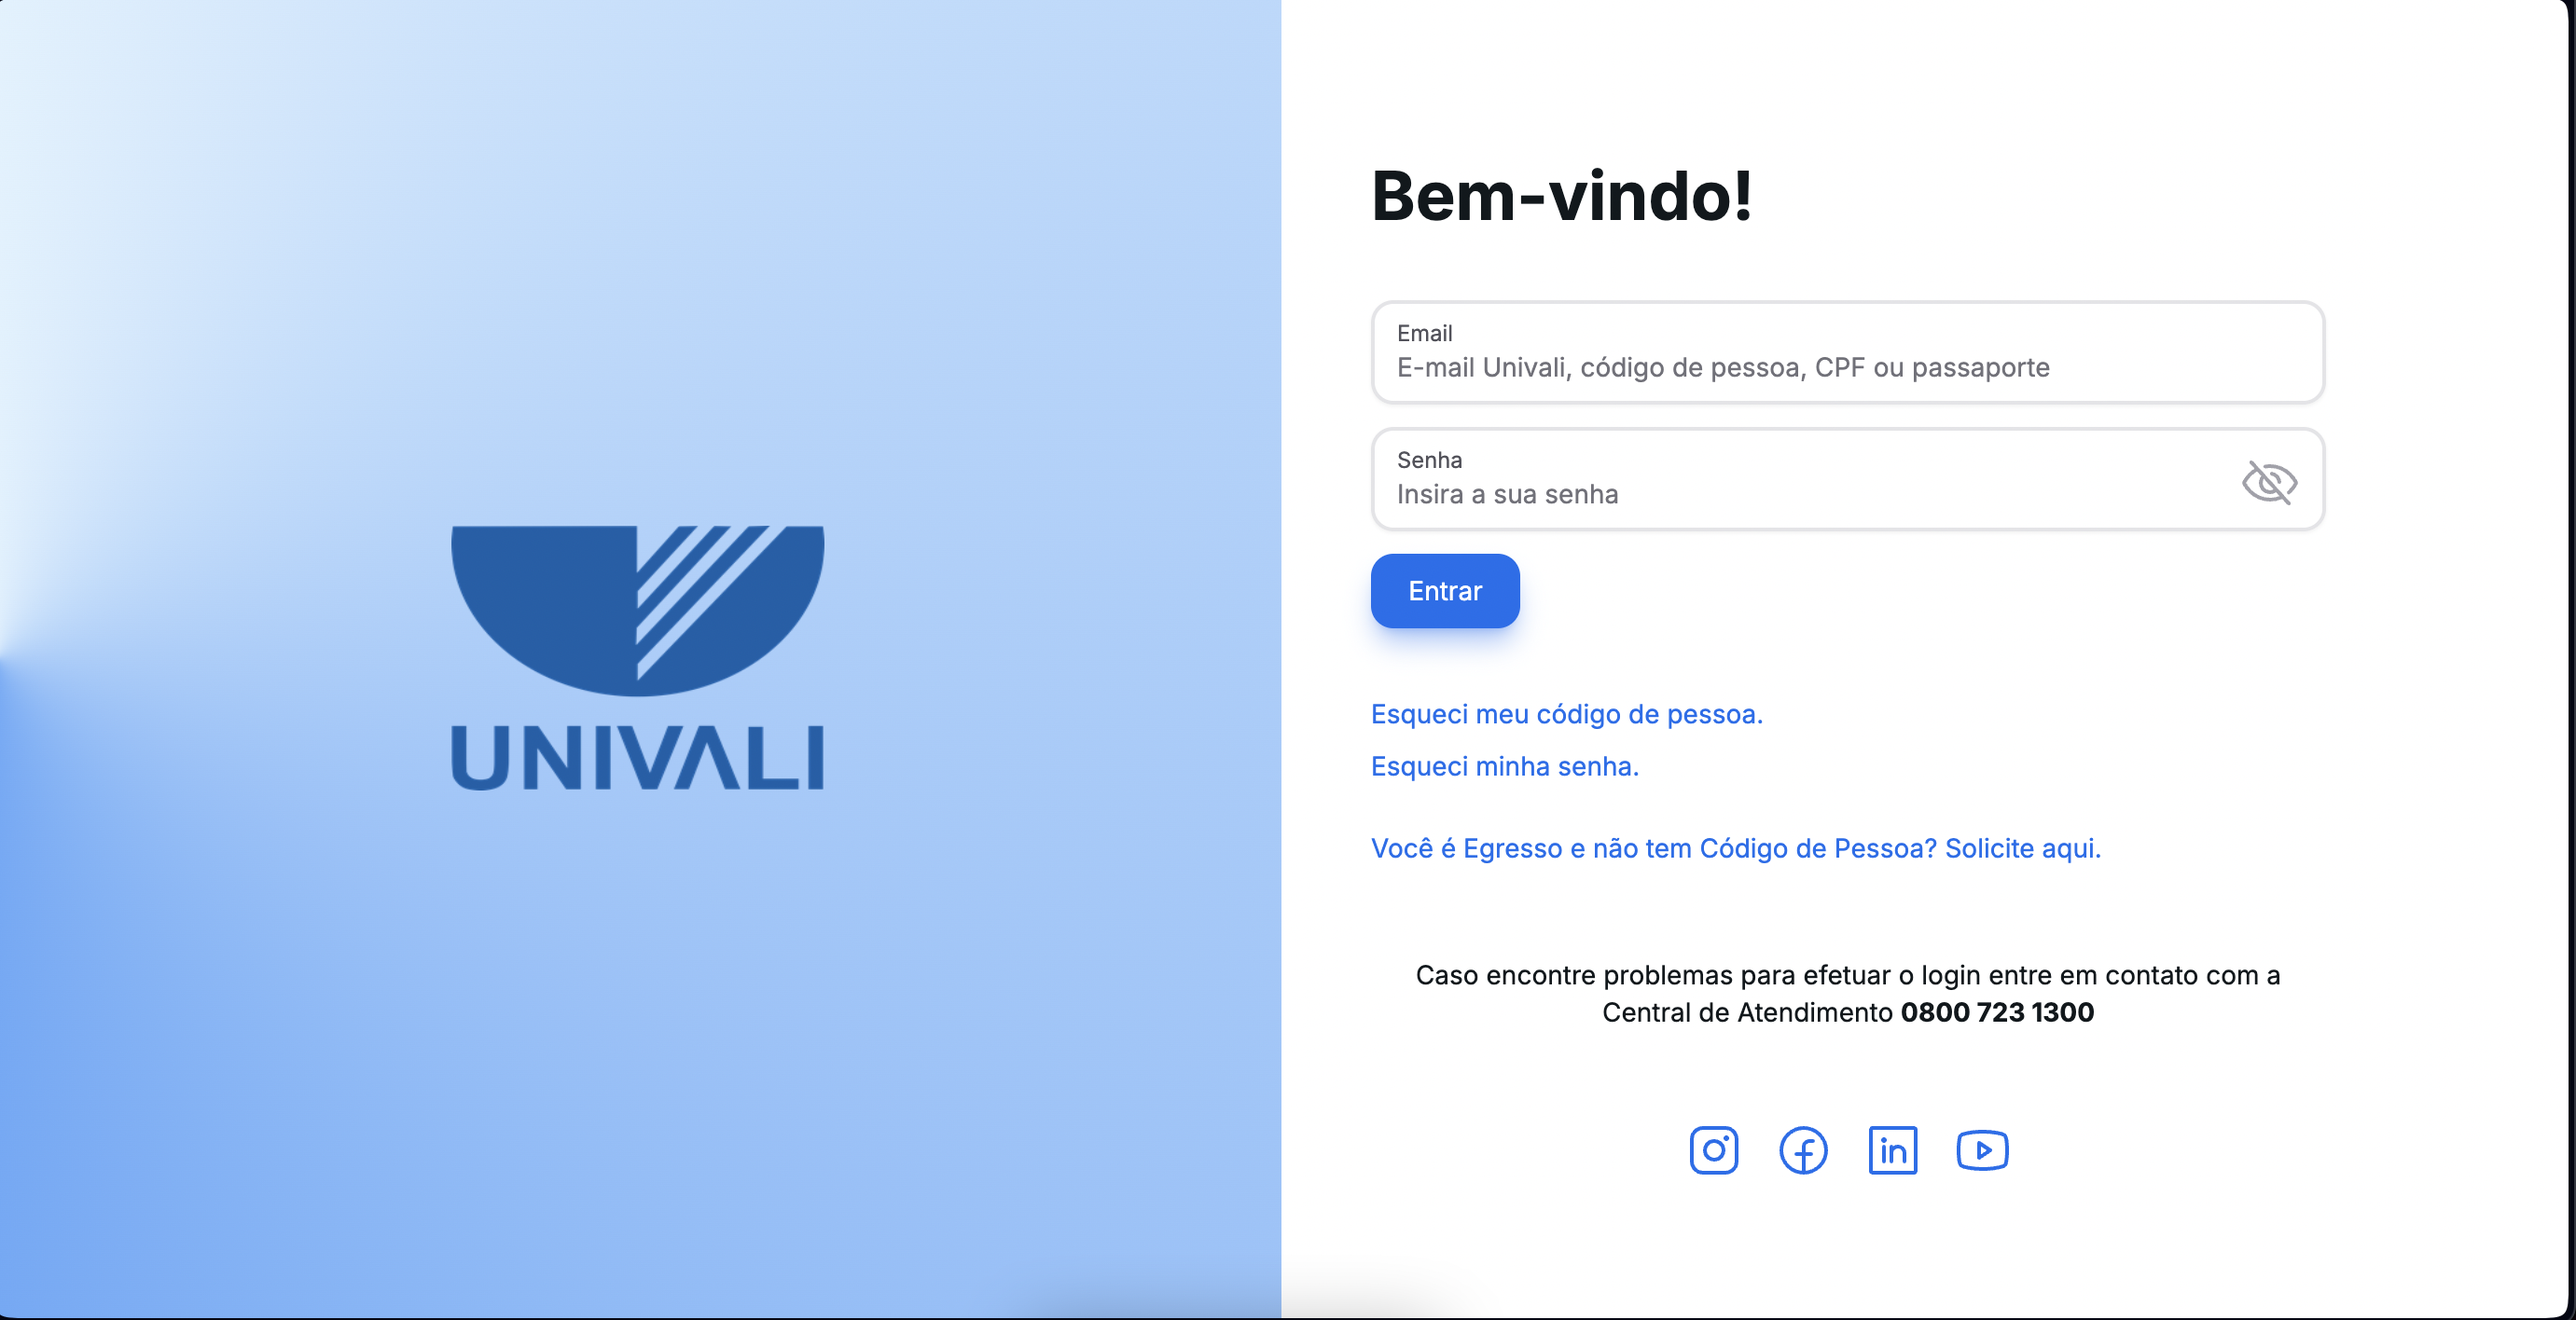
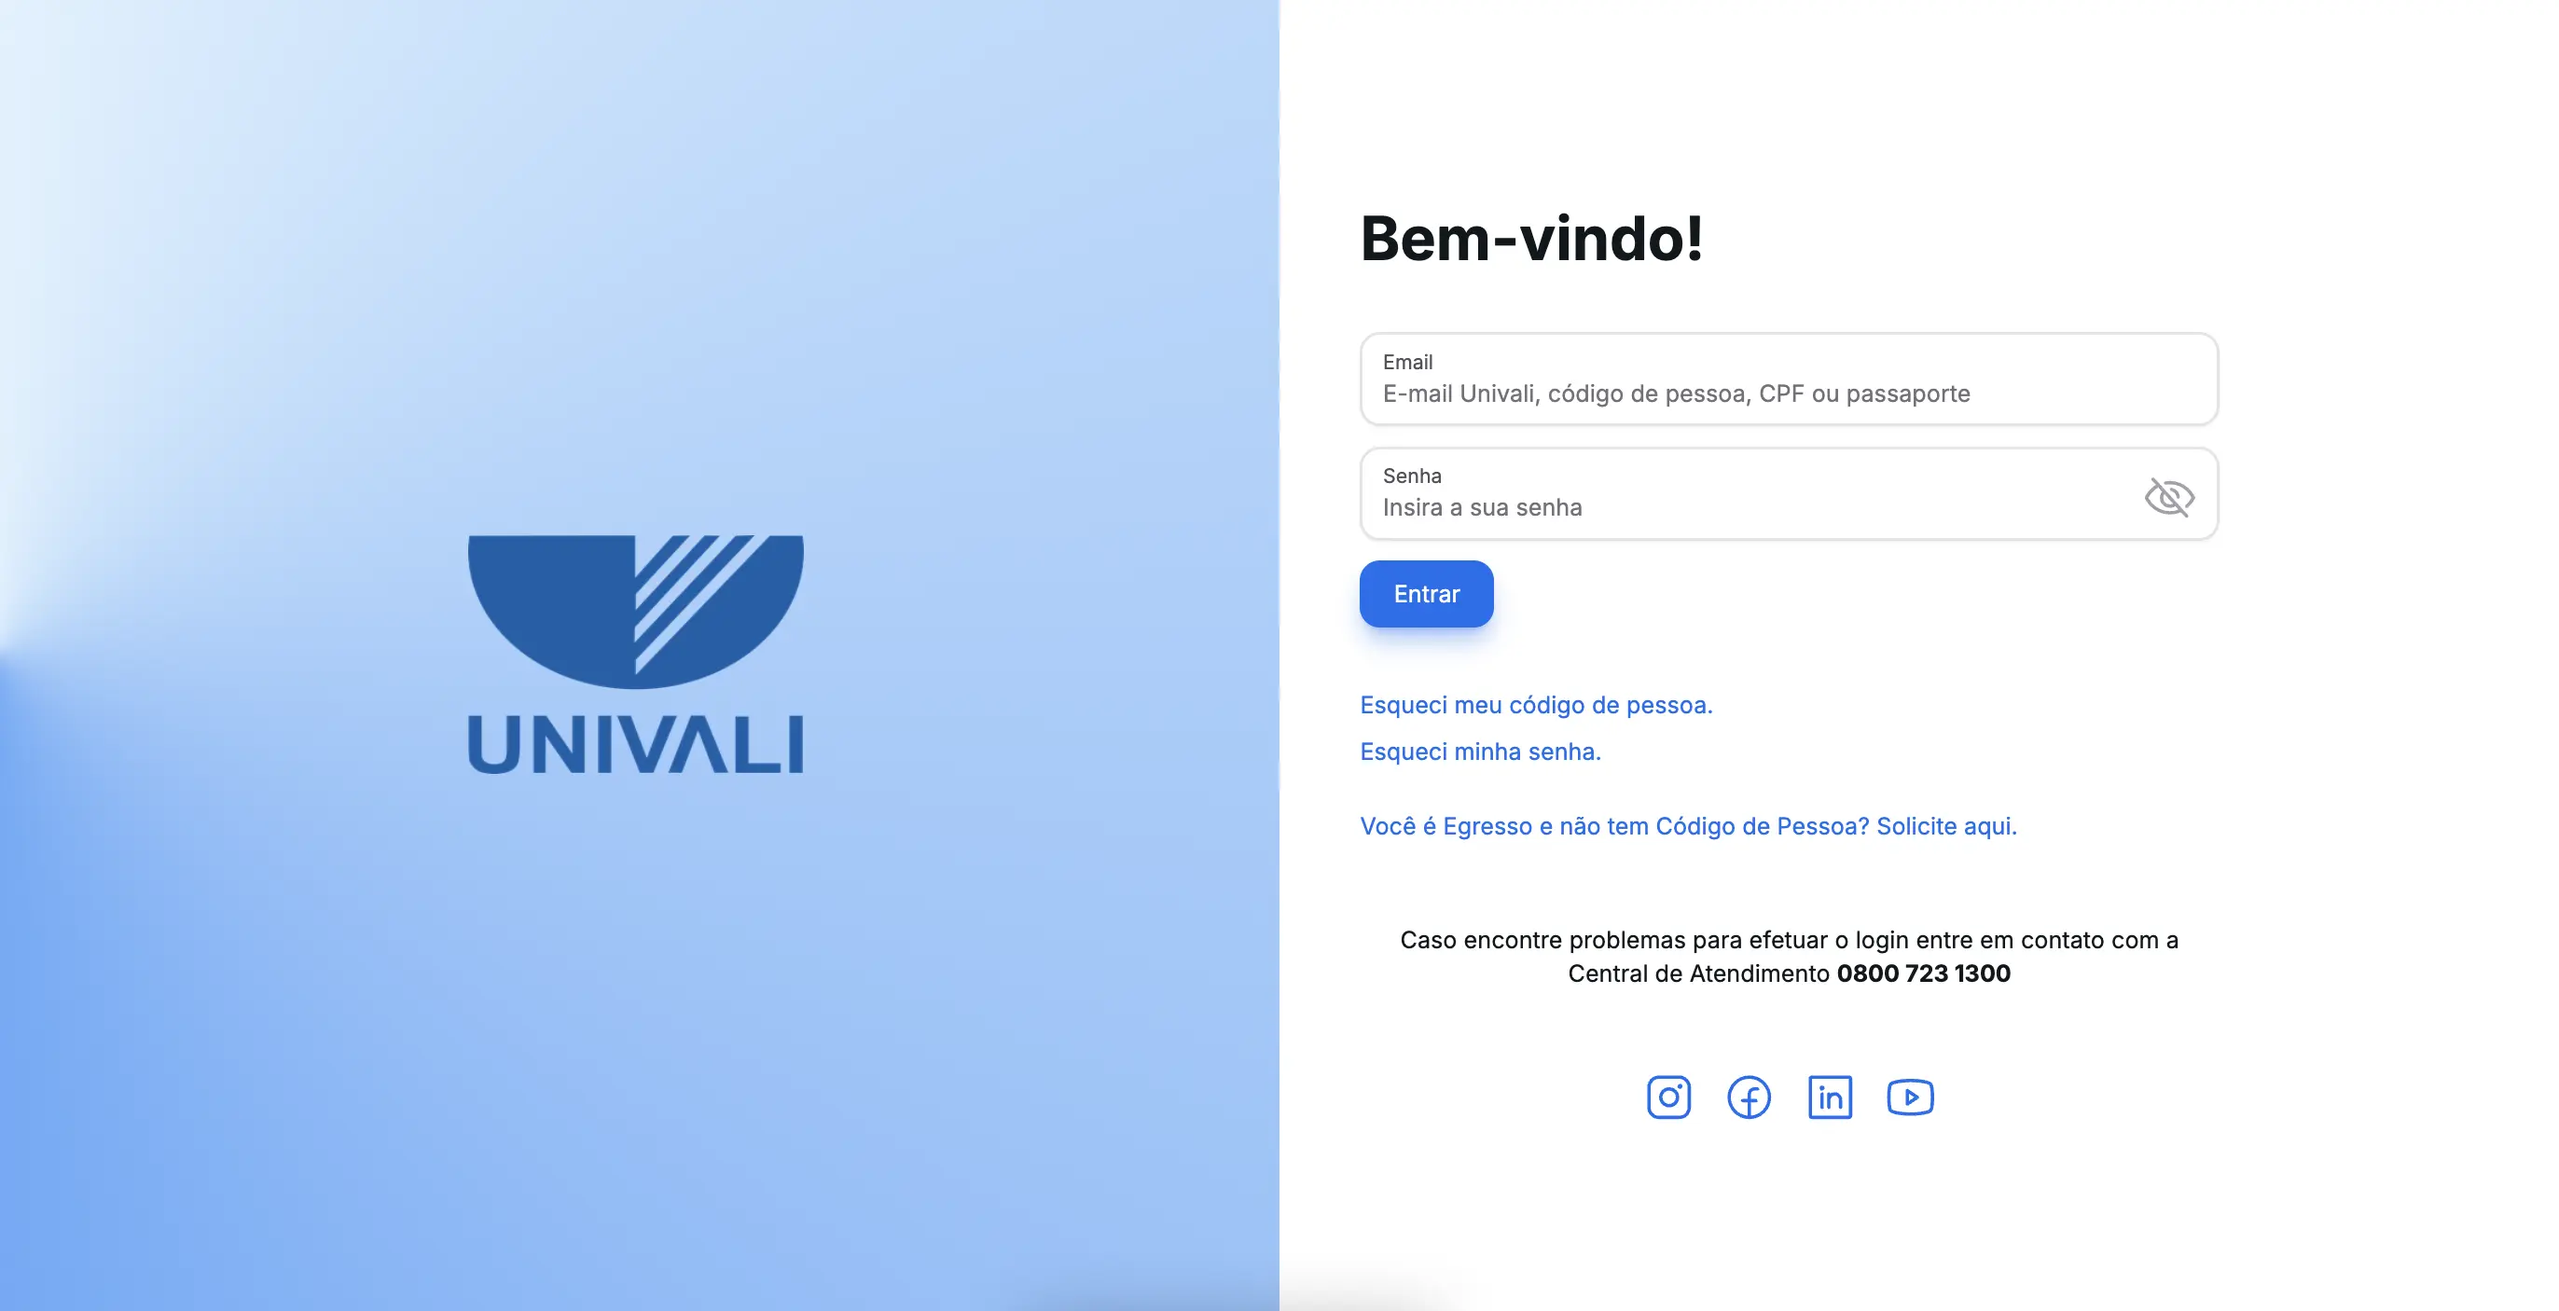
optimizes images

diff --git a/components/Tabs/ProjectsTab.jsx b/components/Tabs/ProjectsTab.jsx
@@ -36,13 +36,16 @@ export default function ProjectsTab() {
                 <p> Github </p>
                 <ArrowSquareOut size={17} />
               </Link>
-              <Image
-                className="rounded-xl ml-auto mr-auto mb-2"
-                src={project.images[0]}
-                alt="Picture of the author"
-                width={250}
-                height={250}
-              />
+              <div className="w-[15.625rem] ml-auto mr-auto h-[8rem]">
+                {" "}
+                <Image
+                  className="rounded-xl ml-auto mr-auto mb-2"
+                  src={project.images[0]}
+                  alt="Picture of the author"
+                  width={250}
+                  height={250}
+                />
+              </div>
               <DialogTrigger asChild>
                 <Button className="p-4 mt-4 text-md text-white bg-black rounded-xl">
                   Ver detalhes
@@ -139,6 +142,7 @@ export default function ProjectsTab() {
                         <DialogTrigger asChild>
                           <div className="mt-auto mb-auto">
                             <Image
+                              loading="eager"
                               className="rounded-xl hover:cursor-pointer"
                               src={image}
                               alt={project.imagesAlt?.[index]}
@@ -150,12 +154,19 @@ export default function ProjectsTab() {
                             </p>
                           </div>
                         </DialogTrigger>
-                        <DialogContent
-                          style={{
-                            backgroundImage: `url(${image})`,
-                          }}
-                          className="w-[1024px] h-[576px] min-h-96 bg-transparent max-w-full bg-no-repeat bg-center bg-cover object-scale-down"
-                        ></DialogContent>
+                        <DialogContent className="w-[1105px] h-[576px] min-h-96 bg-transparent rounded-xl max-w-full bg-no-repeat bg-center bg-cover">
+                          <Image
+                            className="rounded-lg"
+                            alt="Mountains"
+                            src={image}
+                            quality={20}
+                            fill
+                            sizes="100vw"
+                            style={{
+                              objectFit: "cover",
+                            }}
+                          />
+                        </DialogContent>
                       </Dialog>
                     </div>
                   ))}

diff --git a/app/layout.js b/app/layout.js
@@ -21,12 +21,17 @@ export default function RootLayout({ children }) {
   return (
     <html lang="en">
       <body className={`${inter.className} ${handjet.variable}`}>
-        <main
-          className="h-screen relative flex flex-col items-center justify-between w-full  bg-cover bg-center bg-no-repeat "
-          style={{
-            backgroundImage: 'url("/opcao_2.jpeg")',
-          }}
-        >
+        <main className="h-screen relative flex flex-col items-center justify-between w-full   ">
+          <Image
+            alt="Background"
+            src="/opcao_2.jpeg"
+            quality={100}
+            fill
+            sizes="100vw"
+            style={{
+              objectFit: "cover",
+            }}
+          />
           <nav className="absolute gap-3 items-center justify-center top-6 left-6 flex bg-white/20 rounded-xl z-50  backdrop-blur-[30px] border border-white/40">
             <Image
               className="p-3"
